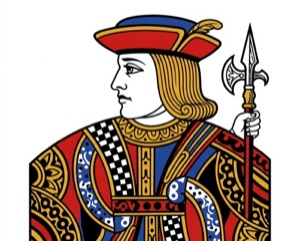
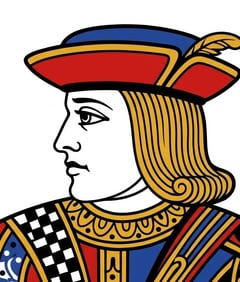
Cartas legíveis pequenas e tela do parceiro maior no celular
- J, Q e K: só o busto, sem faixa branca no meio; moldura depois do índice
- Escolha do parceiro: fontes maiores, campo de nome grande, nome da foto escolhida na frente

diff --git a/public/hand.css b/public/hand.css
@@ -11,7 +11,15 @@ body {
 #pick h1 { font-size: 46px; color: #ffd400; margin: 0; text-shadow: 3px 3px 0 #b3221d, 6px 6px 0 #000; text-align: center; }
 #pick h1 small { display: block; font-size: 18px; color: #fff; text-shadow: none; }
 .name-label { display: flex; flex-direction: column; gap: 6px; font-weight: 700; }
-#name { font-size: 22px; padding: 12px; border-radius: 12px; border: 0; }
+/* os dois campos de nome: grandes para o dedo e com 16px ou mais, para o iPhone não dar zoom */
+#name, #partner-name {
+  font: 700 26px "Avenir Next", "Segoe UI", system-ui, sans-serif; color: #1a1a1a;
+  padding: 16px; border-radius: 16px; border: 3px solid transparent; background: #fffef8;
+  box-shadow: 0 4px 0 #0006; outline: none; width: 100%;
+}
+#name:focus, #partner-name:focus { border-color: #ffd400; }
+#ch-name { margin-top: 10px; font-size: 17px; letter-spacing: .04em; text-transform: uppercase; color: #fffc; }
+#partner-name { text-align: center; }
 #pick p { margin: 6px 0 0; font-weight: 700; }
 .seat-btn { border: 0; border-radius: 16px; padding: 18px; color: #fff; text-align: left; display: flex; flex-direction: column; gap: 4px; box-shadow: 0 5px 0 #0007; }
 .seat-btn b { font-size: 26px; }
@@ -19,17 +27,20 @@ body {
 .seat-btn.t1 { background: #e3261f; }
 
 /* escolher personagens */
-#choose { padding: 18px 14px 28px; display: flex; flex-direction: column; gap: 12px; }
-#choose h2 { margin: 0; font-size: 30px; color: #ffd400; text-align: center; text-shadow: 2px 2px 0 #000; }
-#choose p { margin: 0; text-align: center; font-weight: 700; }
-.av-grid { display: grid; grid-template-columns: repeat(4, 1fr); gap: 10px 8px; }
-.av { border: 0; background: none; color: #fff; padding: 0; display: flex; flex-direction: column; align-items: center; gap: 4px; font: 700 12px sans-serif; }
+#choose { padding: 20px 16px 32px; display: flex; flex-direction: column; gap: 16px; }
+#choose h2 { margin: 0; font-size: 34px; line-height: 1.05; color: #ffd400; text-align: center; text-shadow: 2px 2px 0 #000; }
+#choose p { margin: 0; text-align: center; font-weight: 700; font-size: 19px; line-height: 1.3; }
+.av-grid { display: grid; grid-template-columns: repeat(4, 1fr); gap: 14px 8px; }
+.av { border: 0; background: none; color: #fff; padding: 0; display: flex; flex-direction: column; align-items: center; gap: 8px; font: 700 16px "Avenir Next", "Segoe UI", system-ui, sans-serif; line-height: 1.15; }
+/* o nome fica na frente da foto, mesmo quando a foto cresce ao ser escolhida */
+.av span { position: relative; z-index: 1; text-shadow: 0 1px 2px #000a; }
+.av.sel span { color: #ffd400; transform: translateY(6px); }
 .av img { width: 100%; aspect-ratio: 1; border-radius: 50%; border: 4px solid #fff3; object-fit: cover; transition: transform .15s; }
 .av.sel img { border-color: #ffd400; transform: scale(1.08); box-shadow: 0 0 0 3px #000, 0 0 18px #ffd400; }
 .av.me img { border-color: #2ecc71; }
 .av:disabled { opacity: .28; }
 .ch-btns { display: flex; gap: 10px; }
-.ch-btns button { flex: 1; border: 0; border-radius: 14px; padding: 14px; font-size: 20px; color: #fff; box-shadow: 0 5px 0 #0008; }
+.ch-btns button { flex: 1; border: 0; border-radius: 16px; padding: 16px; font-size: 24px; font-weight: 800; color: #fff; box-shadow: 0 5px 0 #0008; }
 .ch-btns button:disabled { filter: grayscale(1) brightness(.6); }
 #game-btns { display: flex; flex-direction: column; gap: 8px; }
 #game-btns button.alt { background: #0007; font-size: 16px; padding: 10px; box-shadow: none; border: 1px solid #fff4; }
@@ -54,7 +65,7 @@ body {
 .sig-btn { border: 0; border-radius: 50%; width: 44px; height: 44px; font-size: 24px; background: #0008; box-shadow: 0 3px 0 #0008; }
 .sig-btn.off { visibility: hidden; }
 #ch-bars { display: flex; flex-direction: column; gap: 10px; }
-.bar { display: flex; flex-direction: column; gap: 4px; font-weight: 700; }
+.bar { display: flex; flex-direction: column; gap: 6px; font-weight: 700; font-size: 18px; }
 .bar b { color: #ffd400; }
 .bar input { width: 100%; accent-color: #ffd400; }
 #hand .card { --cw: min(28vw, 120px); transition: transform .15s, filter .15s; }
@@ -90,7 +101,7 @@ body {
 #signals summary { font-weight: 800; cursor: pointer; }
 .sig { display: flex; justify-content: space-between; gap: 8px; padding: 4px 0; border-bottom: 1px solid #fff2; }
 .sig b { color: #ffd400; }
-.tip { opacity: .8; font-size: 12px; }
+.tip { opacity: .8; font-size: 15px; }
 footer { text-align: center; font-size: 12px; opacity: .7; }
 footer a { color: #fff; }
 

diff --git a/public/common.css b/public/common.css
@@ -33,11 +33,14 @@ button { font: inherit; cursor: pointer; }
 .card .c-pips span { position: absolute; transform: translate(-50%, -50%); font-size: calc(var(--cw) * .24); line-height: 1; }
 .card .c-pips span.flip { transform: translate(-50%, -50%) rotate(180deg); }
 /* dama, valete e rei: meia figura em cima e a mesma de cabeça para baixo embaixo */
-.card .c-face { position: absolute; inset: 6% 21%; border: 1px solid currentColor; border-radius: 3px; overflow: hidden; display: flex; flex-direction: column; }
+/* a moldura começa depois do índice do canto, para a letra nunca encostar nela */
+.card .c-face {
+  position: absolute; inset: 5% 25%;
+  border: max(1.5px, calc(var(--cw) * .016)) solid currentColor; border-radius: calc(var(--cw) * .05);
+  overflow: hidden; display: flex; flex-direction: column; background: #fff;
+}
 .card .c-face img { flex: 1; min-height: 0; width: 100%; object-fit: cover; object-position: center top; mix-blend-mode: multiply; }
-.card .c-face img.flip { transform: rotate(180deg); }
-.card .c-face-pip { position: absolute; top: 2%; right: 4%; font-size: calc(var(--cw) * .13); line-height: 1; }
-.card .c-face-pip.flip { top: auto; right: auto; bottom: 2%; left: 4%; transform: rotate(180deg); }
+.card .c-face img.flip { transform: rotate(180deg); border-bottom: max(1px, calc(var(--cw) * .01)) solid currentColor; }
 .card.red { color: #d0141b; }
 .card.black { color: #141414; }
 .card.manilha { box-shadow: 0 0 0 3px #ffd400, 0 0 22px #ffd400cc, 0 4px 10px #0007; }

diff --git a/public/shared.js b/public/shared.js
@@ -46,7 +46,7 @@
     let mid;
     if (FACE[c.r]) {
       const src = `/cards/${c.r}-${c.s}.jpg`;
-      mid = `<div class="c-face"><img src="${src}" alt=""><img class="flip" src="${src}" alt=""><span class="c-face-pip">${sym}</span><span class="c-face-pip flip">${sym}</span></div>`;
+      mid = `<div class="c-face"><img src="${src}" alt=""><img class="flip" src="${src}" alt=""></div>`;
     } else if (PIPS[c.r]) {
       mid = `<div class="c-pips">${PIPS[c.r].map(([x, y]) => `<span style="left:${x}%;top:${y}%"${y > 50 ? ' class="flip"' : ''}>${sym}</span>`).join('')}</div>`;
     } else {

diff --git a/arte/cartas/LEIA.md b/arte/cartas/LEIA.md
@@ -2,4 +2,5 @@
 
 Dama, valete e rei: meia figura gerada no KIE (nano-banana-2-1, 5:4, estilo de baralho tradicional).
 No jogo, a mesma imagem aparece em cima e de cabeça para baixo embaixo, como no baralho real.
-Versões do jogo: `public/cards/<R>-<naipe>.jpg` (300 px).
+Versões do jogo: `public/cards/<R>-<naipe>.jpg` (240 × 282 px). São só o busto: corte x 304–848, y 0–640 da arte original, fundo levado a branco.
+O busto cabe na carta pequena; a figura inteira virava borrão.
